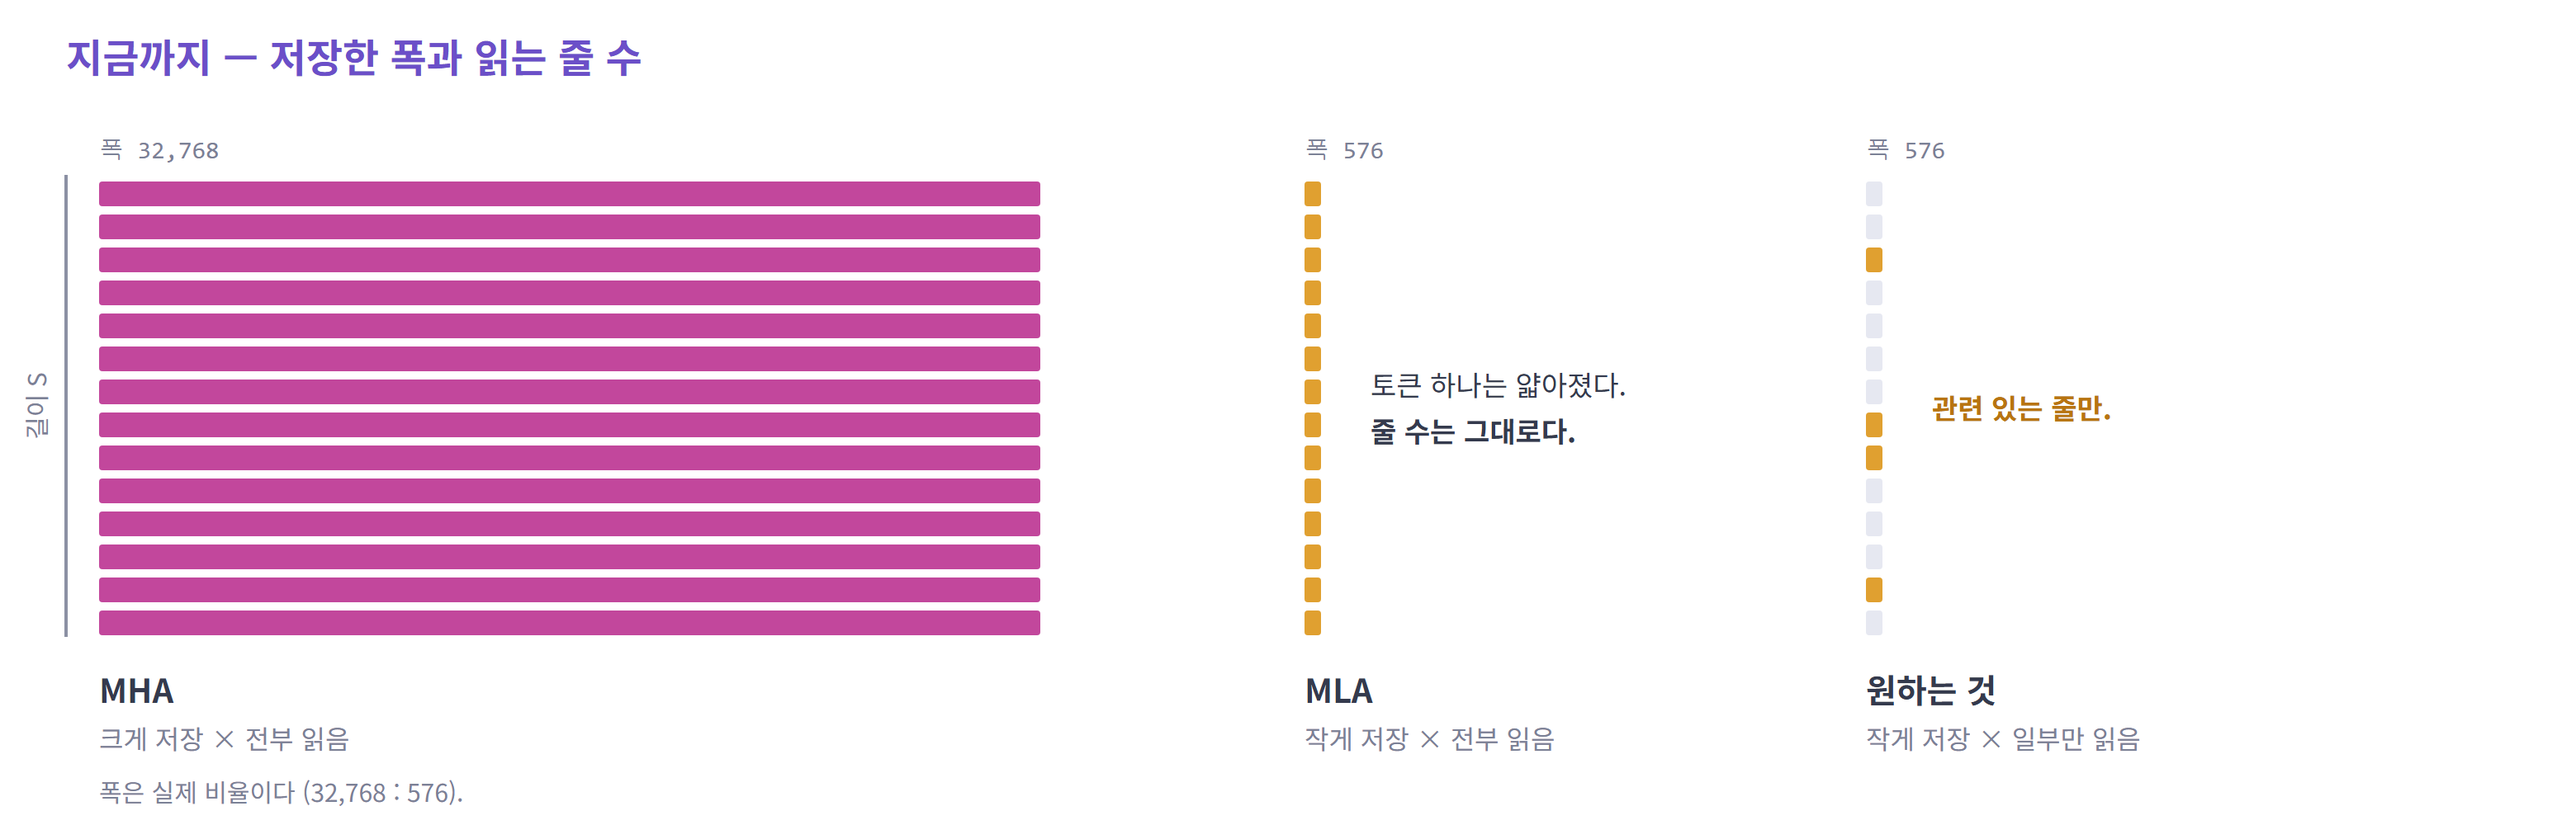
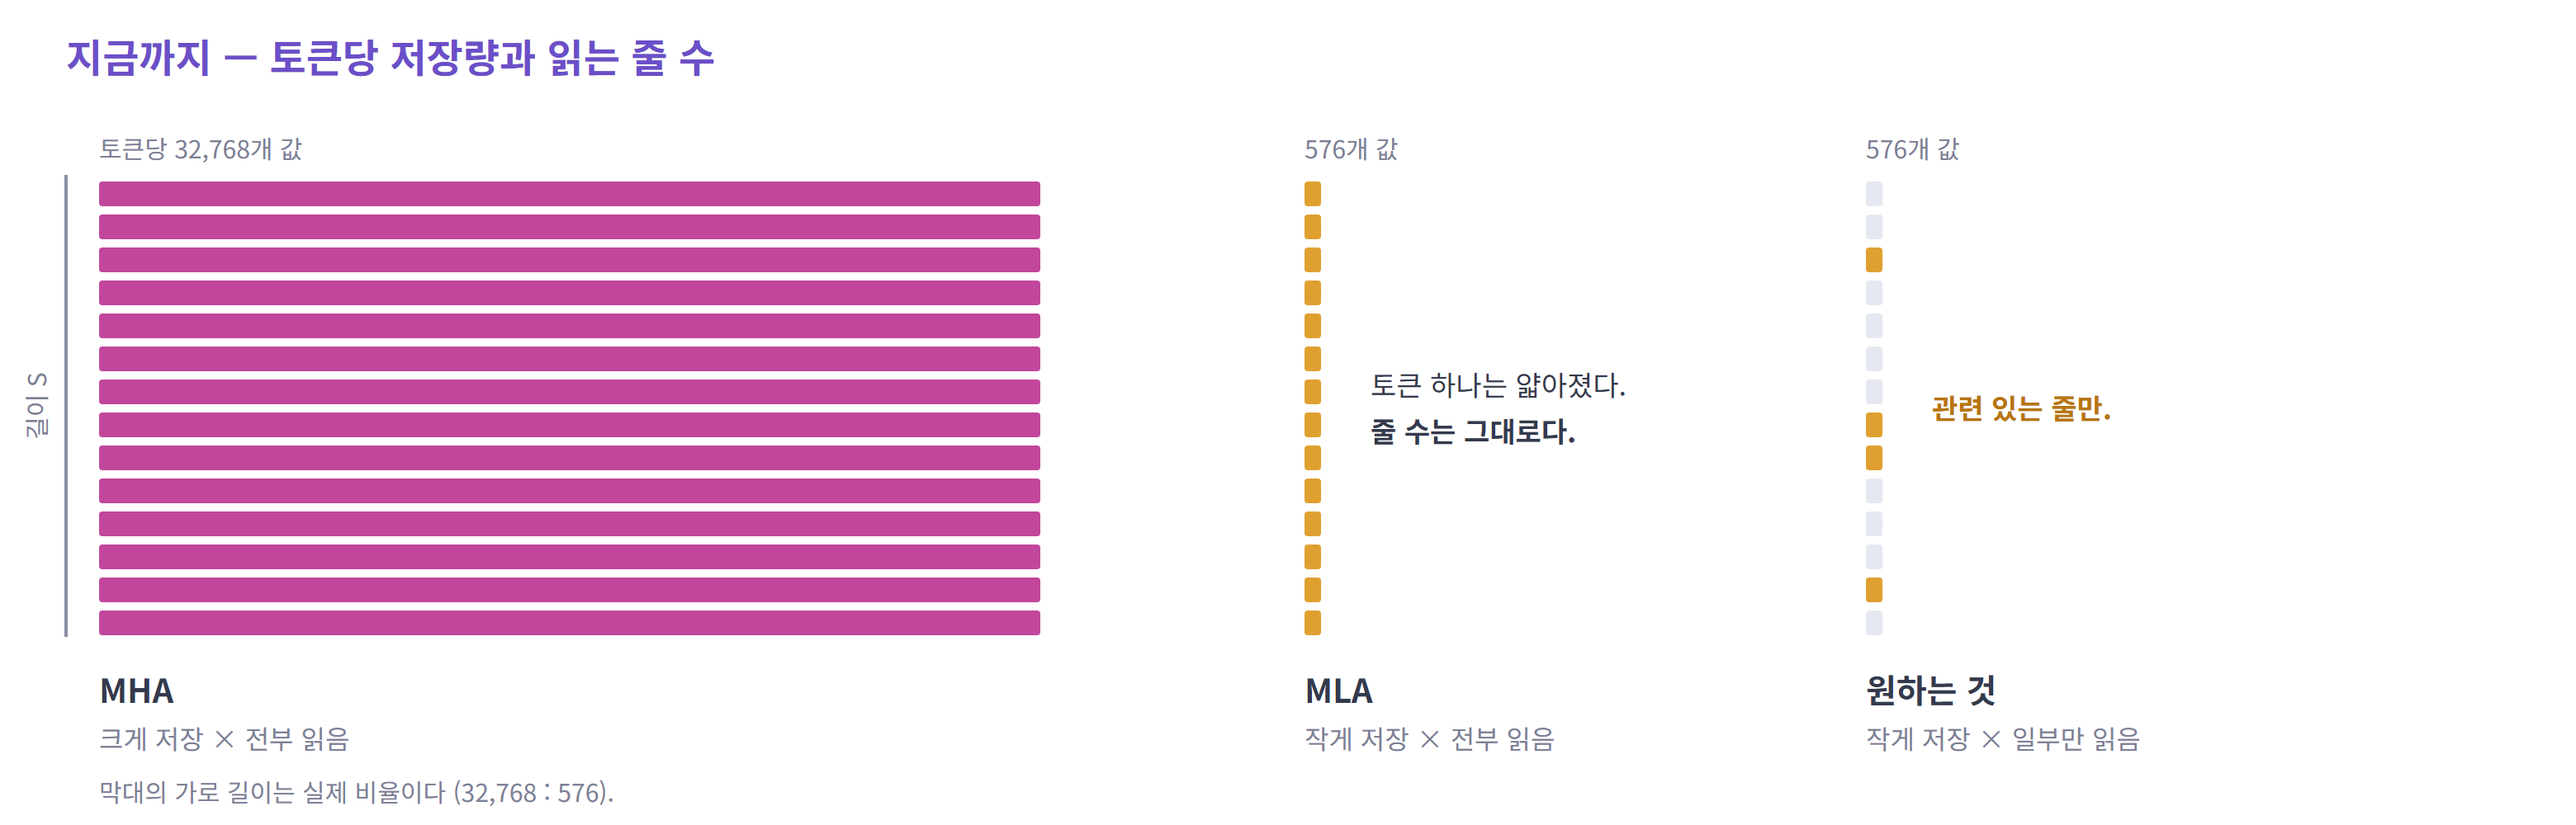
docs: refine the attention seminar intro, model table and MLA derivation
Name each operation in the decode step, spell out why batching does not
help the KV cache, and replace the "width" wording with per-token
storage in the text and figures.

Extend the adoption table to fourteen models with release months,
covering 2026 models read from their Hugging Face configs.

Add an MHA-versus-MQA figure, and show the MLA absorption as a
step-by-step derivation starting from the original score.

diff --git a/seminar/figures/make_figures.py b/seminar/figures/make_figures.py
@@ -227,7 +227,7 @@ def fig_mla_cache():
 
 # ---------------------------------------------------------------- 4. MLA 흡수
 def fig_mla_absorb():
-    f = Fig("04-mla-absorb", 1560, 560)
+    f = Fig("04-mla-absorb", 1560, 740)
     # 왼쪽 : 펴서 비교
     f.title(40, 44, "펴서 비교 — 논문 수식 그대로")
     f.stack(60, 110, 110, 7, "c", hi_last=False)
@@ -242,7 +242,7 @@ def fig_mla_absorb():
     f.text(596, 190, "·", 30)
     f.box(622, 162, 110, 36, "q", "q_C", "1 × 128")
 
-    f.line(780, 30, 780, 520, "#d3d6e2", 2, "6 6")
+    f.line(780, 30, 780, 430, "#d3d6e2", 2, "6 6")
 
     # 오른쪽 : 쿼리를 옮겨서
     x0 = 830
@@ -258,9 +258,22 @@ def fig_mla_absorb():
     f.text(x0 + 605, 298, "S × 512  ·  그대로", 16, color=MUTED, mono=True)
     f.text(x0 + 345, 330, "K를 만들지 않는다", 17, color=MUTED)
 
-    f.rect(40, 440 + 20, 1480, 76, "#f6f5fd", "#d9d2f3", 10, 1.5)
-    f.text(780, 492, "q_C · (c · W_UK)ᵀ   =   (q_C · W_UKᵀ) · cᵀ", 22, mono=True, weight=700)
-    f.text(780, 522, "같은 값이다. 괄호만 옮겼다.   전체 점수 = q̃ · cᵀ  +  q_R · k_Rᵀ (RoPE 64차원 몫)", 16, color=MUTED)
+    f.rect(40, 450, 1480, 270, "#f6f5fd", "#d9d2f3", 10, 1.5)
+    ex, nx = 150, 800
+    # 1행 : 원래 식 + 키의 정체
+    f.text(ex + 34, 500, "q_C · k_Cᵀ", 24, "start", 700, mono=True)
+    f.text(ex + 196, 500, "원래의 점수", 16, "start", color=MUTED)
+    f.rect(nx - 16, 470, 300, 46, KINDS["k"][0], KINDS["k"][1], 8, 2.5)
+    f.text(nx + 134, 501, "k_C = c · W_UK", 23, weight=700, color="#a8327f", mono=True)
+    f.text(nx + 300, 500, "키는 캐시의 c에서 만들어진다", 16, "start", color=MUTED)
+    rows = [(552, "= q_C · (c · W_UK)ᵀ", "k_C 자리에 넣는다"),
+            (604, "= q_C · W_UKᵀ · cᵀ", "전치하면 곱의 순서가 뒤집힌다   (A · B)ᵀ = Bᵀ · Aᵀ"),
+            (656, "= (q_C · W_UKᵀ) · cᵀ  =  q̃ · cᵀ", "앞의 둘을 먼저 곱한다 (결합 법칙)")]
+    for y, eq, note in rows:
+        f.text(ex, y, eq, 24, "start", 700, mono=True)
+        f.text(nx - 16, y, note, 16, "start", color=MUTED)
+    f.text(ex, 700, "값은 그대로다. 곱하는 순서만 바뀌었다.    전체 점수 = q̃ · cᵀ + q_R · k_Rᵀ (RoPE 64차원 몫)", 16, "start",
+           color=MUTED)
     return f
 
 
@@ -514,7 +527,7 @@ def fig_knobs():
     f.line(110, 424, 370, 424, PURPLE, 2)
     f.line(110, 416, 110, 432, PURPLE, 2)
     f.line(370, 416, 370, 432, PURPLE, 2)
-    f.text(240, 454, "① 토큰 하나의 폭", 18, weight=700, color=PURPLE)
+    f.text(240, 454, "① 토큰당 저장량", 18, weight=700, color=PURPLE)
     f.line(84, 160, 84, 400, "#3b7dd8", 2)
     f.line(76, 160, 92, 160, "#3b7dd8", 2)
     f.line(76, 400, 92, 400, "#3b7dd8", 2)
@@ -523,7 +536,7 @@ def fig_knobs():
     f.line(376, 154, 412, 118, "#4d9a56", 2)
     f.text(424, 112, "③ 층 수", 18, "start", 700, "#4d9a56")
 
-    rows = [("①", "폭을 줄인다", "Compressed Attention", "MQA · GQA · MLA", "쓰기에서 무엇을 남길지 바꾼다", PURPLE, "q"),
+    rows = [("①", "토큰당 저장량을 줄인다", "Compressed Attention", "MQA · GQA · MLA", "쓰기에서 무엇을 남길지 바꾼다", PURPLE, "q"),
             ("②", "읽는 위치를 줄인다", "Sparse Attention", "SWA · DSA · CSA · HCA · QSA", "읽기에서 얼마나 훑을지 바꾼다",
              "#3b7dd8", "i"),
             ("③", "층 사이 중복을 줄인다", "Layer Sharing", "CLA · YOCO · IndexShare", "①②와 겹쳐 쓸 수 있다",
@@ -672,7 +685,7 @@ def fig_swa():
 # ---------------------------------------------------------------- 16. 저장 × 읽기
 def fig_store_read():
     f = Fig("16-store-read", 1560, 500)
-    f.title(40, 44, "지금까지 — 저장한 폭과 읽는 줄 수")
+    f.title(40, 44, "지금까지 — 토큰당 저장량과 읽는 줄 수")
     rows = 14
 
     def panel(x, w, kind, name, cap, picked=None):
@@ -688,13 +701,13 @@ def fig_store_read():
     f.line(40, 106, 40, 386, "#8b90a3", 2)
     f.raw(f'<text transform="translate(28,246) rotate(-90)" font-family="{FONT}" font-size="15" text-anchor="middle" '
           f'fill="{MUTED}">길이 S</text>')
-    f.text(60, 96, "폭 32,768", 15, "start", color=MUTED, mono=True)
-    f.text(790, 96, "폭 576", 15, "start", color=MUTED, mono=True)
-    f.text(1130, 96, "폭 576", 15, "start", color=MUTED, mono=True)
+    f.text(60, 96, "토큰당 32,768개 값", 15, "start", color=MUTED)
+    f.text(790, 96, "576개 값", 15, "start", color=MUTED)
+    f.text(1130, 96, "576개 값", 15, "start", color=MUTED)
     f.text(830, 240, "토큰 하나는 얇아졌다.", 17, "start")
     f.text(830, 268, "줄 수는 그대로다.", 17, "start", 700)
     f.text(1170, 254, "관련 있는 줄만.", 17, "start", 700, "#b87410")
-    f.text(60, 486, "폭은 실제 비율이다 (32,768 : 576).", 15, "start", color=MUTED)
+    f.text(60, 486, "막대의 가로 길이는 실제 비율이다 (32,768 : 576).", 15, "start", color=MUTED)
     return f
 
 
@@ -825,9 +838,33 @@ def fig_amortize():
     return f
 
 
+# ---------------------------------------------------------------- 21. MHA vs MQA
+def fig_mha_mqa():
+    f = Fig("21-mha-vs-mqa", 1560, 520)
+    panels = [("MHA · KV 헤드 8개", 8, 150, "쿼리 헤드마다 자기 K, V를 읽는다"),
+              ("MQA · KV 헤드 1개", 1, 930, "모든 쿼리 헤드가 같은 K, V를 읽는다")]
+    for name, nkv, x0, note in panels:
+        f.title(x0 + 232, 50, name, 24, "middle")
+        qx = [x0 + i * 60 for i in range(8)]
+        for x in qx:
+            f.box(x, 90, 46, 46, "q", "q", fs=19)
+        g = 8 // nkv
+        for j in range(nkv):
+            cx = sum(qx[j * g:(j + 1) * g]) / g
+            for i in range(j * g, (j + 1) * g):
+                f.line(qx[i] + 23, 138, cx + 23, 288, "#a3a7b8", 1.8)
+            f.box(cx, 290, 46, 46, "k", "k", fs=19)
+            f.box(cx, 344, 46, 46, "v", "v", fs=19)
+        f.text(x0 + 232, 432, note, 18, weight=600)
+        f.text(x0 + 232, 462, f"캐시  ( S × {nkv} × d_h ) × 2", 16, color=MUTED, mono=True)
+    f.line(780, 70, 780, 470, "#d3d6e2", 2, "6 6")
+    f.text(780, 504, "쿼리 헤드 8개 기준.  점수 계산은 양쪽 모두 8번이다.  읽어 오는 K, V만 8장에서 1장으로 줄어든다.", 17)
+    return f
+
+
 FIGS = [fig_decode, fig_heads, fig_mla_cache, fig_mla_absorb, fig_patterns, fig_dsa, fig_v4, fig_v4_layers, fig_qsa,
         fig_cache_size, fig_knobs, fig_lineage, fig_mha, fig_mla_shape, fig_swa, fig_store_read, fig_dsa_shape,
-        fig_dsa_structure, fig_journey, fig_amortize]
+        fig_dsa_structure, fig_journey, fig_amortize, fig_mha_mqa]
 CHROME = [r"C:\Program Files\Google\Chrome\Application\chrome.exe",
           r"C:\Program Files (x86)\Microsoft\Edge\Application\msedge.exe"]
 

diff --git a/seminar/01-attention-notes.md b/seminar/01-attention-notes.md
@@ -50,7 +50,8 @@
 
 **화면: 연산 목록**
 
-- 다섯 단계 중 `S`가 들어가는 건 읽기 두 단계뿐이다. 그 둘이 읽는 대상이 KV cache다.
+- 연산 이름으로 읽는다. projection, cache append, score, softmax, weighted sum, output projection.
+- 캐시를 읽는 건 score와 weighted sum 둘뿐이다. 그 둘이 읽는 대상이 KV cache다.
 - **"쓰기"와 "읽기" 두 단어를 끝까지 쓴다.**
 
 나올 만한 질문
@@ -83,8 +84,10 @@
 
 **화면: 줄이는 세 방향 / 모델별 채택 현황 / 기법의 계보**
 
-- 폭, 읽는 줄, 층 수. 층 방향은 다루지 않는다.
-- 채택 현황 표: 저장 칸은 GQA 아니면 MLA로 정리됐다. 달라지는 건 읽기 칸이다.
+- 토큰당 저장량, 읽는 줄, 층 수. 층 방향은 다루지 않는다.
+- 채택 현황 표: 위에서 아래로 시간 순이다. 2025년까지는 "GQA나 MLA로 저장하고 전부 읽는다"가 기본이었다.
+- 2026년 줄을 본다. **전부 읽는 모델이 드물어진다.** 골라 읽거나(DSA, CSA/HCA, QSA, 블록 선택), 캐시를 두는 층을 넷 중 하나로 줄인다(Kimi K3, Qwen3.8).
+- 가장 최근인 GLM-5.3과 DeepSeek-V4.1은 고른 결과를 여러 층이 나눠 쓴다. 오늘 다루지 않는 셋째 방향이 이미 들어와 있다.
 - 계보: 왼쪽 가지가 3번 "저장을 줄인다", 오른쪽 가지가 4번 "읽기를 줄인다"다. **MLA에서 DSA로 가는 화살표에서 두 가지가 만난다.**
 
 나올 만한 질문
@@ -100,7 +103,7 @@
 
 **화면: 3번 도입**
 
-- 계보의 왼쪽 가지다. 네 기법 모두 **컨텍스트 전체를 이어서 읽는다.** 바뀌는 건 한 줄의 폭뿐이다.
+- 계보의 왼쪽 가지다. 네 기법 모두 **컨텍스트 전체를 이어서 읽는다.** 바뀌는 건 토큰 하나가 캐시에 남기는 양뿐이다.
 - 그래서 이 가지에서는 연산의 종류가 늘지 않는다. 처음부터 끝까지 행렬 곱하기 벡터다.
 
 **3.1 MHA**
@@ -113,7 +116,8 @@
 **3.2 MQA**
 
 - 2019년의 질문: 헤드마다 달라야 하는 건 "무엇을 찾는가"다. "무엇이 있는가"까지 달라야 하나?
-- 답이 과감했다. 하나면 된다. 쿼리는 64개 그대로이고 읽는 대상만 1개가 된다.
+- 답이 과감했다. 하나면 된다.
+- 그림에서 볼 것: **선의 수는 양쪽이 같다.** 선은 점수 계산이다. 달라진 건 선이 가리키는 상자의 수다. 곱셈은 같고 읽는 양만 줄었다.
 - 문제는 품질이었다. 대형 모델에서는 오래 못 갔다.
 
 **3.3 GQA — 시스템 동작**
@@ -204,8 +208,8 @@
 
 **화면: 4번 도입**
 
-- 계보의 오른쪽 가지다. 3번은 한 줄의 폭을 줄였고, 여기서는 **읽는 줄의 수**를 줄인다.
-- 그림의 폭은 실제 비율이다. MLA는 "작게 저장하고 전부 읽음"이다.
+- 계보의 오른쪽 가지다. 3번은 토큰당 저장량을 줄였고, 여기서는 **읽는 줄의 수**를 줄인다.
+- 막대의 가로 길이는 실제 비율이다. MLA는 "작게 저장하고 전부 읽음"이다.
 - 표의 맨 오른쪽 열을 본다. **이 가지에서 처음으로 이어지지 않는 읽기와 행렬곱이 아닌 연산이 나온다.**
 
 - 발상을 바꾼다. 지금까지는 "무엇을 저장할까"였다. 이제는 **"저장한 걸 다 읽어야 하나"**다.
@@ -287,7 +291,7 @@
 **화면: 토큰을 먼저 묶는다**
 
 - 고르기 전에 **먼저 묶어서 개수를 줄인다.**
-- MLA는 폭을 줄였다. V4는 길이를 줄인다. 엔트리 하나는 512차원이고 **K와 V를 겸한다.** MLA처럼 펴는 행렬은 없다. 논문 표현은 "shared key-value MQA"다.
+- MLA는 토큰 하나의 크기를 줄였다. V4는 줄 수를 줄인다. 엔트리 하나는 512차원이고 **K와 V를 겸한다.** MLA처럼 펴는 행렬은 없다. 논문 표현은 "shared key-value MQA"다.
 
 **화면: CSA와 HCA**
 
@@ -308,7 +312,7 @@
 
 **화면: 캐시의 종류 / 시스템 동작에서 달라지는 것**
 
-- 여기가 시스템 쪽에서 가장 달라지는 부분이다. 지금까지는 캐시가 한 종류였다. 길이 `S`, 폭 일정, 정밀도 일정.
+- 여기가 시스템 쪽에서 가장 달라지는 부분이다. 지금까지는 캐시가 한 종류였다. 길이 `S`, 한 줄의 크기 일정, 정밀도 일정.
 - V4는 세 종류다. 길이가 `S/4`인 것과 `S/128`인 것, 128에서 멈추는 것. 정밀도도 BF16, FP8, FP4가 섞인다.
 - 논문이 직접 "heterogeneous KV cache"라고 부르고 전용 배치를 설계했다. 모든 층의 캐시를 같은 크기 페이지로 나눠 관리하는 기존 방식(PagedAttention)의 전제가 깨진다고 쓴다.
 - **쓰기도 달라진다.** 토큰이 4개나 128개 모여야 엔트리가 하나 생긴다. 그 전까지는 묶이지 않은 끝 토큰을 따로 들고 있어야 한다.
